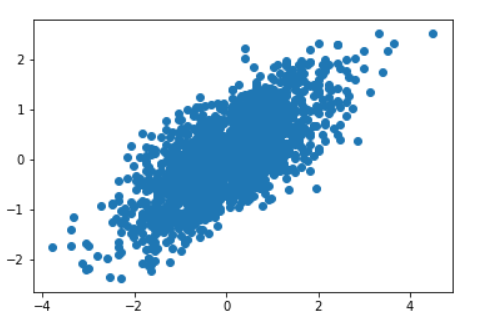
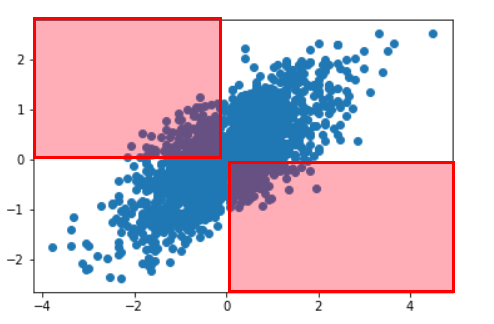
Update images

diff --git a/_posts/2018-03-12-MarchMadness-2018.md b/_posts/2018-03-12-MarchMadness-2018.md
@@ -68,7 +68,10 @@ We classify based on the sign of the result **74%** of games correctly given a
 random holdout.
 
 For core prediction we get a pearson r^2 of 0.5 from a random split holdout set,
-bootstrapped and averaged over 5 trials.
+bootstrapped and averaged over 5 trials.  You can see the misclassifications
+highlighted in red.
+
+
 ![scatter](/assets/mm-2018/scores_scatter.png)
 
 We see very good enrichment and trend, but the vertical gap is still large.
